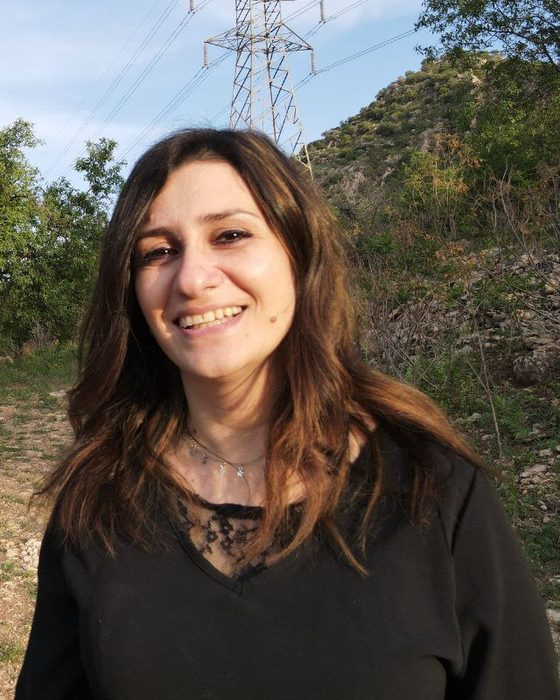
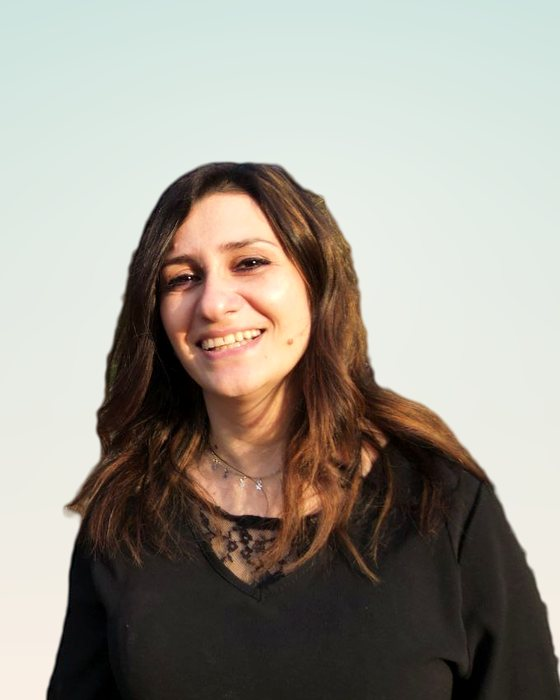
Clean photo background, portrait in hero, phone in header/hero, update Dr. Sally's details (2009 grad, 2017 start, director since 2021, 2000+ cases)
Claude-Session: https://claude.ai/code/session_01KubxAdpsYzhsGBtNT1XNHx

diff --git a/index.html b/index.html
@@ -16,7 +16,7 @@
 <link rel="icon" href="/favicon.ico"><link rel="apple-touch-icon" href="/apple-touch-icon.png">
 <link rel="preconnect" href="https://fonts.googleapis.com"><link rel="preconnect" href="https://fonts.gstatic.com" crossorigin>
 <link rel="stylesheet" href="https://fonts.googleapis.com/css2?family=Vazirmatn:wght@400;500;700;800&family=Fraunces:opsz,wght@9..144,600;9..144,700&family=Nunito+Sans:wght@400;600;700&display=swap">
-<link rel="stylesheet" href="/assets/site.css?v=7">
+<link rel="stylesheet" href="/assets/site.css?v=8">
 <script type="application/ld+json">{"@context":"https://schema.org","@type":"Physician","name":"Dr. Sally Rizqo","alternateName":"د. سالي رزقو","url":"https://drsallycare.com/","image":"https://drsallycare.com/assets/dr-sally.jpg","telephone":"+9647738919655","availableLanguage":["Arabic","Kurdish","English"],"areaServed":["Duhok","Kurdistan Region of Iraq","Online"],"description":"Online consultations and guides for children's and teenagers' emotional wellbeing: autism, ADHD, learning difficulties and adolescence."}</script>
 </head>
 <body>
@@ -33,11 +33,12 @@
       </div>
       <div class="btns">
         <a class="btn primary wa-link" href="#book"><span data-i18n="btnBook"></span></a>
+        <a class="btn tel-btn" data-tel href="#" aria-label="Call"><svg viewBox="0 0 24 24" fill="none" stroke="currentColor" stroke-width="2" stroke-linecap="round" stroke-linejoin="round" aria-hidden="true"><path d="M22 16.9v3a2 2 0 0 1-2.2 2 19.8 19.8 0 0 1-8.6-3.1 19.5 19.5 0 0 1-6-6A19.8 19.8 0 0 1 2.1 4.2 2 2 0 0 1 4.1 2h3a2 2 0 0 1 2 1.7c.1 1 .4 1.9.7 2.8a2 2 0 0 1-.5 2.1L8.1 9.9a16 16 0 0 0 6 6l1.3-1.3a2 2 0 0 1 2.1-.4c.9.3 1.8.6 2.8.7a2 2 0 0 1 1.7 2z"/></svg><span dir="ltr" class="tel-num"></span></a>
         <a class="btn" href="/play/" data-i18n="btnPlay"></a>
       </div>
       <p class="small-note" data-i18n="disclaimer"></p>
     </div>
-    <span class="hero-art" aria-hidden="true" style="display:block;aspect-ratio:1;background:var(--teal);-webkit-mask:url(/assets/logo-mark.png?v=2) center/contain no-repeat;mask:url(/assets/logo-mark.png?v=2) center/contain no-repeat"></span>
+    <figure class="hero-photo"><img src="/assets/dr-sally.jpg?v=2" width="560" height="700" alt="د. سالي رزقو · Dr. Sally Rizqo" fetchpriority="high" decoding="async"></figure>
   </section>
 
   <section style="padding-top:0">
@@ -119,9 +120,9 @@
         <h2 data-i18n="brand"></h2>
         <p data-i18n="aboutP"></p>
         <div class="stat-row" style="--c:var(--teal)">
-          <div class="stat"><b>+1000</b><span data-i18n="sCases"></span></div>
-          <div class="stat"><b>2010</b><span data-i18n="sSince"></span></div>
-          <div class="stat"><b>2020</b><span data-i18n="sCenter"></span></div>
+          <div class="stat"><b>+2000</b><span data-i18n="sCases"></span></div>
+          <div class="stat"><b>2017</b><span data-i18n="sSince"></span></div>
+          <div class="stat"><b>2021</b><span data-i18n="sCenter"></span></div>
         </div>
         <div class="facts">
           <div class="fact"><b data-i18n="fQual"></b><span data-i18n="fQualV"></span></div>
@@ -186,7 +187,7 @@ window.PAGE = { id:"home", t:{
 ar:{
  heroEyebrow:"استشارات أونلاين بالعربية والكوردية والإنجليزية",
  heroTitle:"دعم متخصص لصحة طفلك النفسية، أينما كنتم",
- heroLead:"طبيبة في مجال الصحة النفسية للأطفال والمراهقين ومديرة مركز نفسية الطفل في دهوك، تابعت أكثر من 1000 حالة من التوحد وفرط الحركة وتشتت الانتباه وصعوبات التعلم ومرحلة المراهقة. نستمع لمخاوفكم، ونضع معًا خطوات واضحة للبيت والمدرسة.",
+ heroLead:"طبيبة في مجال الصحة النفسية للأطفال والمراهقين ومديرة مركز نفسية الطفل في دهوك، قابلت وعالجت أكثر من 2000 حالة من التوحد وفرط الحركة وتشتت الانتباه وصعوبات التعلم ومرحلة المراهقة. نستمع لمخاوفكم، ونضع معًا خطوات واضحة للبيت والمدرسة.",
  btnPlay:"ألعاب وأنشطة للأطفال",
  focusTitle:"اختاروا الموضوع", focusLead:"لكل موضوع صفحة خاصة فيها أقسام للعائلات والمعلمين والباحثين.",
  fAutism:"التوحد", fAutismP:"علامات مبكرة، تقييم، رأي ثانٍ، وخطة عملية لدعم تواصل الطفل ومهاراته.",
@@ -199,9 +200,9 @@ ar:{
  how2:"اختاروا الموعد", how2p:"نؤكد معكم الوقت المناسب بتوقيت العراق.",
  how3:"استشارة فيديو", how3p:"جلسة خاصة، ثم خطة واضحة للخطوات التالية.",
  aboutEyebrow:"عن الدكتورة",
- aboutP:"تخرجت الدكتورة سالي في كلية الطب، جامعة الموصل (طب نينوى) عام 2008، وتعيّنت طبيبةً عام 2010. منذ عام 2020 تعمل ممارسةً ومديرةً لمركز نفسية الطفل في دهوك، حيث تابعت أكثر من 1000 حالة من التوحد وفرط الحركة وتشتت الانتباه وصعوبات التعلم ومشكلات المراهقة. أدارت عددًا من الدورات التدريبية، وشاركت مع منظمات المجتمع المدني في زيارات لمخيمات المهجّرين والنازحين.",
- sCases:"حالة تابعتها: توحد، فرط حركة، صعوبات تعلم، ومراهقة", sSince:"بداية الممارسة الطبية", sCenter:"مديرة مركز نفسية الطفل في دهوك",
- fQualV:"بكالوريوس طب وجراحة عامة، جامعة الموصل (طب نينوى)، 2008", fSpec:"الاختصاص", fCommunity:"العمل المجتمعي", fCommunityV:"دورات تدريبية، وزيارات لمخيمات المهجّرين والنازحين مع منظمات المجتمع المدني",
+ aboutP:"تخرجت الدكتورة سالي في كلية الطب، جامعة الموصل (طب نينوى) عام 2009، وبدأت ممارسة الطب النفسي عام 2017. تعمل منذ عام 2021 مديرةً لمركز نفسية الطفل في دهوك، وقد قابلت وعالجت أكثر من 2000 حالة من التوحد وفرط الحركة وتشتت الانتباه وصعوبات التعلم ومشكلات المراهقة. أدارت عددًا من الدورات التدريبية، وشاركت مع منظمات المجتمع المدني في زيارات لمخيمات المهجّرين والنازحين.",
+ sCases:"حالة قابلتها وعالجتها: توحد، فرط حركة، صعوبات تعلم، ومراهقة", sSince:"بداية ممارسة الطب النفسي", sCenter:"مديرة مركز نفسية الطفل في دهوك",
+ fQualV:"بكالوريوس طب وجراحة عامة، جامعة الموصل (طب نينوى)، 2009", fSpec:"الاختصاص", fCommunity:"العمل المجتمعي", fCommunityV:"دورات تدريبية، وزيارات لمخيمات المهجّرين والنازحين مع منظمات المجتمع المدني",
  photoPh:"صورة الدكتورة (بعد موافقتها)",
  fQual:"المؤهلات", fReg:"رقم التسجيل المهني", fLangs:"لغات الاستشارة", fLangsV:"العربية، الكوردية (البادينية)، الإنجليزية",
  fAges:"الفئة العمرية", fFocus:"مجالات التركيز", fFocusV:"التوحد، فرط الحركة وتشتت الانتباه، صعوبات التعلم، المراهقة", fBase:"المقر",
@@ -249,7 +250,7 @@ ar:{
 ku:{
  heroEyebrow:"شێوەرێن ئۆنلاین ب کوردی، عەرەبی و ئینگلیزی",
  heroTitle:"پشتەڤانیا پسپۆڕ بۆ ساخلەمیا دەروونیا زارۆکێ تە، ل هەر جهەکێ هوین لێ بن",
- heroLead:"پزیشکەکا بوارێ ساخلەمیا دەروونی یا زارۆکان و هەرزەکاران و ڕێڤەبەرا سەنتەرێ دەروونیا زارۆکان ل دهۆکێ، کو زێدەتر ژ 1000 حالەتێن ئۆتیزم، زێدە-جوولە و کێمیا سەرنجێ، زەحمەتیێن فێربوونێ و هەرزەکاریێ دویڤچوون بۆ کرینە. گوهێ خۆ ددەینە نیگەرانیێن هەوە، و پێکڤە پێنگاڤێن ئاشکرا بۆ مال و قوتابخانێ دادنێین.",
+ heroLead:"پزیشکەکا بوارێ ساخلەمیا دەروونی یا زارۆکان و هەرزەکاران و ڕێڤەبەرا سەنتەرێ دەروونیا زارۆکان ل دهۆکێ، کو زێدەتر ژ 2000 حالەتێن ئۆتیزم، زێدە-جوولە و کێمیا سەرنجێ، زەحمەتیێن فێربوونێ و هەرزەکاریێ ڤەکۆلین و چارەسەر کرینە. گوهێ خۆ ددەینە نیگەرانیێن هەوە، و پێکڤە پێنگاڤێن ئاشکرا بۆ مال و قوتابخانێ دادنێین.",
  btnPlay:"یاری و چالاکی بۆ زارۆکان",
  focusTitle:"بابەتەکی هەلبژێرن", focusLead:"بۆ هەر بابەتەکی پەڕەکا تایبەت هەیە، دگەل بەشێن خێزانان، مامۆستایان و ڤەکۆلەران.",
  fAutism:"ئۆتیزم", fAutismP:"نیشانێن زوو، هەلسەنگاندن، بیروڕایا دووێ، و پلانەکا کرداری بۆ پشتەڤانیا زارۆکی.",
@@ -262,9 +263,9 @@ ku:{
  how2:"دەمێ هەلبژێرە", how2p:"دەمێ گونجای ب دەمژمێرا عێراقێ پشتڕاست دکەین.",
  how3:"شێوەرا ڤیدیۆیی", how3p:"دانیشتنەکا تایبەت، پاشی پلانەکا ئاشکرا.",
  aboutEyebrow:"دەربارەی دکتۆرێ",
- aboutP:"دکتۆرە سالی ل ساڵا 2008 ژ کۆلیژا پزیشکی یا زانکۆیا مووسڵ (پزیشکیا نەینەوا) دەرچوویە، و ل ساڵا 2010 دامەزرایە. ژ ساڵا 2020 ڤە وەک پزیشک و ڕێڤەبەرا سەنتەرێ دەروونیا زارۆکان ل دهۆکێ کار دکەت، و زێدەتر ژ 1000 حالەتێن ئۆتیزم، زێدە-جوولە، زەحمەتیێن فێربوونێ و ئاریشێن هەرزەکاریێ دویڤچوون بۆ کرینە. گەلەک خولێن ڕاهێنانێ بڕێڤەبرینە، و دگەل ڕێکخراوێن جڤاکا مەدەنی سەرەدانا کەمپێن ئاوارە و دەربەدەران کریە.",
- sCases:"حالەت: ئۆتیزم، زێدە-جوولە، زەحمەتیێن فێربوونێ و هەرزەکاری", sSince:"دەستپێکا کارێ پزیشکی", sCenter:"ڕێڤەبەرا سەنتەرێ دەروونیا زارۆکان ل دهۆکێ",
- fQualV:"بەکالۆریۆسا پزیشکی، زانکۆیا مووسڵ (پزیشکیا نەینەوا)، 2008", fSpec:"پسپۆڕی", fCommunity:"کارێ جڤاکی", fCommunityV:"خولێن ڕاهێنانێ، و سەرەدانا کەمپێن ئاوارە و دەربەدەران دگەل ڕێکخراوێن جڤاکا مەدەنی",
+ aboutP:"دکتۆرە سالی ل ساڵا 2009 ژ کۆلیژا پزیشکی یا زانکۆیا مووسڵ (پزیشکیا نەینەوا) دەرچوویە، و ل ساڵا 2017 دەستپێکریە ب پراکتیزەکرنا پزیشکیا دەروونی. ژ ساڵا 2021 ڤە ڕێڤەبەرا سەنتەرێ دەروونیا زارۆکان ل دهۆکێ یە، و زێدەتر ژ 2000 حالەتێن ئۆتیزم، زێدە-جوولە، زەحمەتیێن فێربوونێ و ئاریشێن هەرزەکاریێ ڤەکۆلین و چارەسەر کرینە. گەلەک خولێن ڕاهێنانێ بڕێڤەبرینە، و دگەل ڕێکخراوێن جڤاکا مەدەنی سەرەدانا کەمپێن ئاوارە و دەربەدەران کریە.",
+ sCases:"حالەتێن ڤەکۆلای و چارەسەرکری: ئۆتیزم، زێدە-جوولە، زەحمەتیێن فێربوونێ و هەرزەکاری", sSince:"دەستپێکا پراکتیزەکرنا پزیشکیا دەروونی", sCenter:"ڕێڤەبەرا سەنتەرێ دەروونیا زارۆکان ل دهۆکێ",
+ fQualV:"بەکالۆریۆسا پزیشکی، زانکۆیا مووسڵ (پزیشکیا نەینەوا)، 2009", fSpec:"پسپۆڕی", fCommunity:"کارێ جڤاکی", fCommunityV:"خولێن ڕاهێنانێ، و سەرەدانا کەمپێن ئاوارە و دەربەدەران دگەل ڕێکخراوێن جڤاکا مەدەنی",
  photoPh:"وێنێ دکتۆرێ (پشتی ڕەزامەندیا وێ)",
  fQual:"بڕوانامە", fReg:"ژمارا تۆمارا پیشەیی", fLangs:"زمانێن شێوەرێ", fLangsV:"کوردی (بادینی)، عەرەبی، ئینگلیزی",
  fAges:"تەمەن", fFocus:"بوارێن سەرەکی", fFocusV:"ئۆتیزم، زێدە-جوولە و کێمیا سەرنجێ، زەحمەتیێن فێربوونێ، هەرزەکاری", fBase:"جه",
@@ -312,7 +313,7 @@ ku:{
 en:{
  heroEyebrow:"Online consultations in Arabic, Kurdish and English",
  heroTitle:"Expert support for your child's emotional wellbeing, wherever you are",
- heroLead:"A physician in child and adolescent mental health and director of the Child Psychology Centre in Duhok, who has followed more than 1,000 children and teens with autism, ADHD, learning difficulties and adolescent challenges. We listen to your concerns and agree clear next steps for home and school, together.",
+ heroLead:"A physician in child and adolescent mental health and director of the Child Psychology Centre in Duhok, who has seen and treated more than 2,000 children and teens with autism, ADHD, learning difficulties and adolescent challenges. We listen to your concerns and agree clear next steps for home and school, together.",
  btnPlay:"Games & activities for children",
  focusTitle:"Choose a topic", focusLead:"Each topic has its own page, with sections for families, teachers and researchers.",
  fAutism:"Autism", fAutismP:"Early signs, assessment, second opinions, and a practical plan to support communication and skills.",
@@ -325,9 +326,9 @@ en:{
  how2:"Choose a time", how2p:"We confirm a suitable time in Iraq time.",
  how3:"Video consultation", how3p:"A private session, followed by a clear plan for next steps.",
  aboutEyebrow:"About",
- aboutP:"Dr. Sally graduated from the College of Medicine, University of Mosul (Nineveh Medicine) in 2008 and was appointed as a physician in 2010. Since 2020 she has practised at, and directed, the Child Psychology Centre in Duhok, where she has followed more than 1,000 children and teenagers with autism, ADHD, learning difficulties and adolescent challenges. She has led training courses and worked with civil-society organisations on visits to camps for displaced families.",
- sCases:"cases followed: autism, ADHD, learning difficulties, adolescence", sSince:"in medical practice since", sCenter:"director of the Child Psychology Centre, Duhok",
- fQualV:"MBChB, University of Mosul (Nineveh Medicine), 2008", fSpec:"Specialty", fCommunity:"Community work", fCommunityV:"Training courses, and camp visits for displaced families with civil-society organisations",
+ aboutP:"Dr. Sally graduated from the College of Medicine, University of Mosul (Nineveh Medicine) in 2009 and began practising psychiatry in 2017. Since 2021 she has directed the Child Psychology Centre in Duhok, and she has seen and treated more than 2,000 children and teenagers with autism, ADHD, learning difficulties and adolescent challenges. She has led training courses and worked with civil-society organisations on visits to camps for displaced families.",
+ sCases:"cases seen and treated: autism, ADHD, learning difficulties, adolescence", sSince:"began practising psychiatry", sCenter:"director of the Child Psychology Centre, Duhok",
+ fQualV:"MBChB, University of Mosul (Nineveh Medicine), 2009", fSpec:"Specialty", fCommunity:"Community work", fCommunityV:"Training courses, and camp visits for displaced families with civil-society organisations",
  photoPh:"Doctor's photo (with her approval)",
  fQual:"Qualifications", fReg:"Registration number", fLangs:"Consultation languages", fLangsV:"Arabic, Kurdish (Badini), English",
  fAges:"Age range", fFocus:"Focus areas", fFocusV:"Autism, ADHD, learning difficulties, adolescence", fBase:"Based in",
@@ -376,8 +377,8 @@ en:{
   document.getElementById("latest").innerHTML = pick.map(sl => window.ARTICLES.find(a => a.slug === sl)).filter(Boolean).map(window.artCard).join("");
  } };
 </script>
-<script src="/assets/articles-data.js?v=7"></script>
-<script src="/assets/articles-ui.js?v=7"></script>
-<script src="/assets/site.js?v=7"></script>
+<script src="/assets/articles-data.js?v=8"></script>
+<script src="/assets/articles-ui.js?v=8"></script>
+<script src="/assets/site.js?v=8"></script>
 </body>
 </html>

diff --git a/learn/autism-early-signs/index.html b/learn/autism-early-signs/index.html
@@ -16,7 +16,7 @@
 <link rel="icon" href="/favicon.ico"><link rel="apple-touch-icon" href="/apple-touch-icon.png">
 <link rel="preconnect" href="https://fonts.googleapis.com"><link rel="preconnect" href="https://fonts.gstatic.com" crossorigin>
 <link rel="stylesheet" href="https://fonts.googleapis.com/css2?family=Vazirmatn:wght@400;500;700;800&family=Fraunces:opsz,wght@9..144,600;9..144,700&family=Nunito+Sans:wght@400;600;700&display=swap">
-<link rel="stylesheet" href="/assets/site.css?v=7">
+<link rel="stylesheet" href="/assets/site.css?v=8">
 <script type="application/ld+json">{"@context":"https://schema.org","@type":"Article","headline":"Early signs of autism: when should I be concerned?","description":"What parents may notice in the first two years, when an assessment is worth seeking, and why waiting is rarely helpful.","inLanguage":["ar","ku","en"],"datePublished":"2026-10-08","dateModified":"2026-10-08","mainEntityOfPage":"https://drsallycare.com/learn/autism-early-signs/","publisher":{"@type":"Organization","name":"Dr. Sally Rizqo","url":"https://drsallycare.com/"}}</script>
 </head>
 <body>
@@ -34,7 +34,7 @@
   </section>
   <section style="padding-top:8px"><h2 data-i18n="moreArt"></h2><div class="art-grid" id="more"></div></section>
 </main>
-<script src="/assets/articles-data.js?v=7"></script>
+<script src="/assets/articles-data.js?v=8"></script>
 <script>
 window.PAGE = { id:"learn", t:{"ar":{"pageTitle":"علامات التوحد المبكرة: متى يجب أن أقلق؟ | د. سالي رزقو","title":"علامات التوحد المبكرة: متى يجب أن أقلق؟","sum":"ما الذي يلاحظه الأهل في السنتين الأوليين، ومتى يكون التقييم ضروريًا، ولماذا لا ينبغي الانتظار.","body":"<p>كل طفل يتطور بإيقاعه الخاص، ووجود علامة واحدة لا يعني أن الطفل مصاب بالتوحد. الأهم أن ننتبه إلى <b>مجموعة علامات تستمر</b> وتؤثر على تواصل الطفل ولعبه وتفاعله مع من حوله.</p><h3>علامات يلاحظها الأهل</h3><ul><li>قلة التواصل بالعين، أو عدم الالتفات عند مناداته باسمه في عمر سنة تقريبًا.</li><li>عدم الإشارة بإصبعه إلى الأشياء ليُريكم ما يهمه، أو عدم الاستجابة لإشارتكم.</li><li>تأخر الكلام أو غياب المناغاة، أو التوقف عن كلمات كان يقولها.</li><li>لعب متكرر بنفس الطريقة (ترتيب الأشياء، تدوير العجلات) أكثر من اللعب التخيلي.</li><li>حساسية شديدة لأصوات أو ملمس أو روائح معينة، أو انزعاج كبير من تغيّر الروتين.</li><li>قلة الاهتمام بمشاركة الفرح معكم أو بمشاهدة الأطفال الآخرين.</li></ul><div class=\"alert\">فقدان أي مهارة لغوية أو اجتماعية كان الطفل قد اكتسبها، في أي عمر، يستدعي التقييم دون تأخير.</div><h3>ما الذي لا يعني التوحد وحده؟</h3><p>الخجل، أو تأخر الكلام وحده مع تواصل جيد بالإشارات والنظر، أو اللعب الهادئ لا تعني بالضرورة التوحد. لذلك نحتاج إلى تقييم متخصص يجمع الملاحظات من البيت ومن المدرسة أو الحضانة.</p><h3>ماذا أفعل الآن؟</h3><ol><li>دوّنوا ملاحظاتكم مع أمثلة وتواريخ، وصوّروا مقاطع قصيرة لسلوك الطفل في البيت.</li><li>اطلبوا فحص السمع وتقييم النمو، فهما من أول الخطوات.</li><li>لا تنتظروا «حتى يكبر». الدعم المبكر يحسّن التواصل والمهارات في سنوات يكون فيها الدماغ شديد المرونة.</li><li>تواصلوا مع مختص في صحة الطفل النفسية والنمائية لتقييم الحالة ووضع خطة.</li></ol><p>طلب التقييم ليس اتهامًا لأحد ولا حكمًا على الطفل، بل خطوة محبة لفهمه ودعمه. والأهل ليسوا سبب التوحد.</p>"},"en":{"pageTitle":"Early signs of autism: when should I be concerned? | Dr. Sally Rizqo","title":"Early signs of autism: when should I be concerned?","sum":"What parents may notice in the first two years, when an assessment is worth seeking, and why waiting is rarely helpful.","body":"<p>Every child develops at their own pace, and a single sign does not mean a child is autistic. What matters is a <b>pattern that persists</b> and affects how the child communicates, plays and connects with others.</p><h3>Signs parents may notice</h3><ul><li>Little eye contact, or not turning when called by name at around one year.</li><li>Not pointing to show you things that interest them, or not following your pointing.</li><li>Delayed speech, little babbling, or stopping words they used to say.</li><li>Repetitive play (lining up objects, spinning wheels) more than pretend play.</li><li>Strong reactions to certain sounds, textures or smells, or great distress when routines change.</li><li>Little interest in sharing joy with you or watching other children.</li></ul><div class=\"alert\">Losing any language or social skill a child had already gained, at any age, calls for assessment without delay.</div><h3>What does not point to autism on its own?</h3><p>Shyness, or late talking alone with good communication through gestures and eye contact, or quiet play do not necessarily mean autism. That is why a specialist assessment, bringing together observations from home and from nursery or school, is needed.</p><h3>What can I do now?</h3><ol><li>Write down your observations with examples and dates, and record short videos of your child at home.</li><li>Ask for a hearing test and a developmental assessment. They are among the first steps.</li><li>Don't wait for them to \"grow out of it\". Early support improves communication and skills during years when the brain is very adaptable.</li><li>Contact a specialist in child mental health and development to assess your child and agree a plan.</li></ol><p>Asking for an assessment is not blaming anyone or judging your child. It is a loving step towards understanding and supporting them. Parents do not cause autism.</p>"}},
  onLang(){
@@ -44,7 +44,7 @@ window.PAGE = { id:"learn", t:{"ar":{"pageTitle":"علامات التوحد ال
   document.getElementById("more").innerHTML = others.slice(0, 3).map(window.artCard).join("");
  } };
 </script>
-<script src="/assets/articles-ui.js?v=7"></script>
-<script src="/assets/site.js?v=7"></script>
+<script src="/assets/articles-ui.js?v=8"></script>
+<script src="/assets/site.js?v=8"></script>
 </body>
 </html>

diff --git a/learn/autism-first-steps-home/index.html b/learn/autism-first-steps-home/index.html
@@ -16,7 +16,7 @@
 <link rel="icon" href="/favicon.ico"><link rel="apple-touch-icon" href="/apple-touch-icon.png">
 <link rel="preconnect" href="https://fonts.googleapis.com"><link rel="preconnect" href="https://fonts.gstatic.com" crossorigin>
 <link rel="stylesheet" href="https://fonts.googleapis.com/css2?family=Vazirmatn:wght@400;500;700;800&family=Fraunces:opsz,wght@9..144,600;9..144,700&family=Nunito+Sans:wght@400;600;700&display=swap">
-<link rel="stylesheet" href="/assets/site.css?v=7">
+<link rel="stylesheet" href="/assets/site.css?v=8">
 <script type="application/ld+json">{"@context":"https://schema.org","@type":"Article","headline":"My child is autistic: practical steps at home","description":"A picture routine, simple communication and calm responses to sensory overload. Ideas you can use from today.","inLanguage":["ar","ku","en"],"datePublished":"2026-10-08","dateModified":"2026-10-08","mainEntityOfPage":"https://drsallycare.com/learn/autism-first-steps-home/","publisher":{"@type":"Organization","name":"Dr. Sally Rizqo","url":"https://drsallycare.com/"}}</script>
 </head>
 <body>
@@ -34,7 +34,7 @@
   </section>
   <section style="padding-top:8px"><h2 data-i18n="moreArt"></h2><div class="art-grid" id="more"></div></section>
 </main>
-<script src="/assets/articles-data.js?v=7"></script>
+<script src="/assets/articles-data.js?v=8"></script>
 <script>
 window.PAGE = { id:"learn", t:{"ar":{"pageTitle":"طفلي مصاب بالتوحد: خطوات عملية في البيت | د. سالي رزقو","title":"طفلي مصاب بالتوحد: خطوات عملية في البيت","sum":"روتين مصوّر، تواصل بسيط، وتعامل هادئ مع الانهيار الحسي. أفكار يمكن تطبيقها منذ اليوم.","body":"<p>بعد التشخيص يسأل الأهل: «ماذا نفعل في البيت؟». الدعم الأهم لا يحتاج أدوات غالية، بل <b>ثباتًا وصبرًا وفهمًا لطريقة الطفل</b> في التعبير.</p><h3>1. روتين واضح ومصوّر</h3><p>كثير من الأطفال يرتاحون حين يعرفون ما سيحدث بعد ذلك. استخدموا صورًا بسيطة بترتيب اليوم (استيقاظ، فطور، مدرسة، لعب، نوم)، وأخبروه مسبقًا بأي تغيير. في صفحة <a href=\"/play/\">الألعاب والأنشطة</a> جدول يومي مصوّر قابل للطباعة.</p><h3>2. تواصل بأبسط الطرق</h3><ul><li>استخدموا جملًا قصيرة وواضحة، وأعطوه وقتًا ليجيب.</li><li>أضيفوا الإشارات والصور إذا كان الكلام محدودًا. هذا لا يؤخر الكلام، بل يدعمه.</li><li>سمّوا مشاعره: «أنت غاضب لأن اللعبة انكسرت».</li></ul><h3>3. الانهيار ليس تمردًا</h3><p>الانهيار الحسي (meltdown) يحدث حين يُرهق الضجيج أو الازدحام أو التغيير جهازَه العصبي. ليس سلوكًا لجذب الانتباه ولا عنادًا. في تلك اللحظة:</p><ul><li>قللوا الصوت والضوء والكلام، وابقوا قريبين وهادئين.</li><li>لا تناقشوا ولا تعاقبوا أثناء الانهيار، فالطفل لا يستطيع الاستماع حينها.</li><li>بعد أن يهدأ، تحدثوا ببساطة، وفكروا ما الذي أرهقه لتتجنبوه أو تهيئوه له.</li></ul><h3>4. ابنوا على اهتماماته</h3><p>إن أحب السيارات أو الأرقام أو الحيوانات، فاستخدموها للتعلم واللعب والتواصل. الاهتمام القوي نقطة قوة وليس مشكلة.</p><h3>5. اعتنوا بأنفسكم أيضًا</h3><p>إرهاق الأهل حقيقي. اطلبوا المساعدة من العائلة، وتواصلوا مع أهالٍ آخرين، ولا تترددوا في طلب إرشاد للأهل. دعمكم لأنفسكم جزء من دعمكم لطفلكم.</p><p>لا يوجد علاج «يشفي» التوحد، لكن الدعم المناسب يحسّن مهارات الطفل واستقلاليته وجودة حياته وحياة الأسرة.</p>"},"en":{"pageTitle":"My child is autistic: practical steps at home | Dr. Sally Rizqo","title":"My child is autistic: practical steps at home","sum":"A picture routine, simple communication and calm responses to sensory overload. Ideas you can use from today.","body":"<p>After a diagnosis parents ask, \"What do we do at home?\" The most helpful support needs no expensive tools, only <b>consistency, patience and an understanding of how your child communicates</b>.</p><h3>1. A clear, picture-based routine</h3><p>Many children feel calmer when they know what comes next. Use simple pictures for the order of the day (wake up, breakfast, school, play, sleep) and warn them ahead of any change. The <a href=\"/play/\">games & activities</a> page has a printable picture schedule.</p><h3>2. Communicate in the simplest way</h3><ul><li>Use short, clear sentences and give time to answer.</li><li>Add gestures and pictures if speech is limited. This does not delay speech, it supports it.</li><li>Name feelings: \"You're angry because the toy broke.\"</li></ul><h3>3. A meltdown is not defiance</h3><p>A sensory meltdown happens when noise, crowds or change overwhelm the nervous system. It is not attention-seeking or stubbornness. In the moment:</p><ul><li>Reduce sound, light and talking, and stay close and calm.</li><li>Don't argue or punish during a meltdown; your child cannot take it in.</li><li>Once calm, talk simply, and think about what overwhelmed them so you can avoid or prepare for it.</li></ul><h3>4. Build on their interests</h3><p>If they love cars, numbers or animals, use them for learning, play and connection. A strong interest is a strength, not a problem.</p><h3>5. Look after yourselves too</h3><p>Parent exhaustion is real. Ask family for help, connect with other parents, and don't hesitate to seek parent guidance. Supporting yourselves is part of supporting your child.</p><p>There is no treatment that \"cures\" autism, but the right support improves a child's skills, independence and quality of life, and the family's too.</p>"}},
  onLang(){
@@ -44,7 +44,7 @@ window.PAGE = { id:"learn", t:{"ar":{"pageTitle":"طفلي مصاب بالتوح
   document.getElementById("more").innerHTML = others.slice(0, 3).map(window.artCard).join("");
  } };
 </script>
-<script src="/assets/articles-ui.js?v=7"></script>
-<script src="/assets/site.js?v=7"></script>
+<script src="/assets/articles-ui.js?v=8"></script>
+<script src="/assets/site.js?v=8"></script>
 </body>
 </html>

diff --git a/learn/adhd-not-laziness/index.html b/learn/adhd-not-laziness/index.html
@@ -16,7 +16,7 @@
 <link rel="icon" href="/favicon.ico"><link rel="apple-touch-icon" href="/apple-touch-icon.png">
 <link rel="preconnect" href="https://fonts.googleapis.com"><link rel="preconnect" href="https://fonts.gstatic.com" crossorigin>
 <link rel="stylesheet" href="https://fonts.googleapis.com/css2?family=Vazirmatn:wght@400;500;700;800&family=Fraunces:opsz,wght@9..144,600;9..144,700&family=Nunito+Sans:wght@400;600;700&display=swap">
-<link rel="stylesheet" href="/assets/site.css?v=7">
+<link rel="stylesheet" href="/assets/site.css?v=8">
 <script type="application/ld+json">{"@context":"https://schema.org","@type":"Article","headline":"ADHD is not laziness and not bad parenting","description":"What ADHD looks like at home and at school, and why a child needs understanding, not blame.","inLanguage":["ar","ku","en"],"datePublished":"2026-10-08","dateModified":"2026-10-08","mainEntityOfPage":"https://drsallycare.com/learn/adhd-not-laziness/","publisher":{"@type":"Organization","name":"Dr. Sally Rizqo","url":"https://drsallycare.com/"}}</script>
 </head>
 <body>
@@ -34,7 +34,7 @@
   </section>
   <section style="padding-top:8px"><h2 data-i18n="moreArt"></h2><div class="art-grid" id="more"></div></section>
 </main>
-<script src="/assets/articles-data.js?v=7"></script>
+<script src="/assets/articles-data.js?v=8"></script>
 <script>
 window.PAGE = { id:"learn", t:{"ar":{"pageTitle":"فرط الحركة وتشتت الانتباه: ليس كسلًا وليس سوء تربية | د. سالي رزقو","title":"فرط الحركة وتشتت الانتباه: ليس كسلًا وليس سوء تربية","sum":"كيف يبدو ADHD في البيت والمدرسة، ولماذا يحتاج الطفل إلى فهم وليس إلى لوم.","body":"<p>اضطراب فرط الحركة وتشتت الانتباه (ADHD) حالة نمائية تؤثر على تنظيم الانتباه والاندفاع والنشاط. هو <b>ليس كسلًا، وليس قلة ذكاء، وليس نتيجة تربية خاطئة</b>. كثير من الأطفال المصابين أذكياء جدًا، لكن أدمغتهم تعمل بطريقة مختلفة في التركيز والتنظيم.</p><h3>كيف يظهر في البيت والمدرسة؟</h3><ul><li><b>تشتت الانتباه:</b> ينسى الأغراض والواجبات، يبدو كأنه لا يسمع، يترك المهام نصف مكتملة، يتعب من الأعمال الطويلة.</li><li><b>فرط الحركة:</b> صعوبة في الجلوس، حركة مستمرة، كلام كثير.</li><li><b>الاندفاع:</b> مقاطعة الآخرين، صعوبة الانتظار، قرارات سريعة دون تفكير.</li></ul><p>وقد تظهر عند البنات بصورة أهدأ، كأحلام يقظة وشرود وتنظيم ضعيف، فيتأخر التعرف عليها.</p><h3>متى نفكر في التقييم؟</h3><p>حين تستمر هذه الصعوبات أكثر من ستة أشهر، وتظهر في أكثر من مكان (البيت والمدرسة)، وتؤثر فعلًا على التعلم والعلاقات والسلوك. التقييم يجمع معلومات من الأهل والمعلمين، ويستبعد أسبابًا أخرى كالقلق وصعوبات التعلم ومشاكل السمع أو النوم.</p><h3>ما الذي يساعد؟</h3><ul><li>تفهّم الحالة والتوقف عن اللوم، فهو يخفف الضغط على الطفل والأسرة.</li><li>روتين ثابت، وتعليمات قصيرة، ومهام مقسمة إلى خطوات صغيرة.</li><li>تعاون مع المدرسة: مقعد قريب من المعلم، فترات راحة، وقت إضافي.</li><li>نشاط بدني منتظم ونوم كافٍ.</li><li>في بعض الحالات يصف الطبيب علاجًا دوائيًا بعد تقييم دقيق وبمتابعة منتظمة، وهو قرار طبي يُتخذ مع الأسرة.</li></ul><p>الطفل الذي يفهمه من حوله يتحسن ثقته بنفسه، وهذا من أهم عوامل نجاحه.</p>"},"en":{"pageTitle":"ADHD is not laziness and not bad parenting | Dr. Sally Rizqo","title":"ADHD is not laziness and not bad parenting","sum":"What ADHD looks like at home and at school, and why a child needs understanding, not blame.","body":"<p>Attention-deficit/hyperactivity disorder (ADHD) is a developmental condition affecting the regulation of attention, impulses and activity. It is <b>not laziness, not low intelligence and not the result of poor parenting</b>. Many children with ADHD are very bright, but their brains work differently when it comes to focus and organisation.</p><h3>What it can look like at home and school</h3><ul><li><b>Inattention:</b> forgets belongings and homework, seems not to listen, leaves tasks half-done, tires with long tasks.</li><li><b>Hyperactivity:</b> trouble sitting still, constant movement, talking a lot.</li><li><b>Impulsivity:</b> interrupting, difficulty waiting, quick decisions without thinking.</li></ul><p>In girls it often looks quieter (daydreaming, drifting, poor organisation), so it is recognised later.</p><h3>When to think about an assessment</h3><p>When these difficulties last more than six months, appear in more than one setting (home and school) and genuinely affect learning, relationships or behaviour. Assessment gathers information from parents and teachers and rules out other causes such as anxiety, learning difficulties, or hearing and sleep problems.</p><h3>What helps</h3><ul><li>Understanding the condition and dropping blame, which eases pressure on the child and family.</li><li>A steady routine, short instructions and tasks broken into small steps.</li><li>Working with school: a seat near the teacher, movement breaks, extra time.</li><li>Regular physical activity and enough sleep.</li><li>In some cases a doctor prescribes medication after careful assessment and with regular follow-up. This is a medical decision made together with the family.</li></ul><p>A child who is understood gains confidence, and confidence is one of the strongest predictors of success.</p>"}},
  onLang(){
@@ -44,7 +44,7 @@ window.PAGE = { id:"learn", t:{"ar":{"pageTitle":"فرط الحركة وتشتت
   document.getElementById("more").innerHTML = others.slice(0, 3).map(window.artCard).join("");
  } };
 </script>
-<script src="/assets/articles-ui.js?v=7"></script>
-<script src="/assets/site.js?v=7"></script>
+<script src="/assets/articles-ui.js?v=8"></script>
+<script src="/assets/site.js?v=8"></script>
 </body>
 </html>

diff --git a/learn/adhd-routines-homework/index.html b/learn/adhd-routines-homework/index.html
@@ -16,7 +16,7 @@
 <link rel="icon" href="/favicon.ico"><link rel="apple-touch-icon" href="/apple-touch-icon.png">
 <link rel="preconnect" href="https://fonts.googleapis.com"><link rel="preconnect" href="https://fonts.gstatic.com" crossorigin>
 <link rel="stylesheet" href="https://fonts.googleapis.com/css2?family=Vazirmatn:wght@400;500;700;800&family=Fraunces:opsz,wght@9..144,600;9..144,700&family=Nunito+Sans:wght@400;600;700&display=swap">
-<link rel="stylesheet" href="/assets/site.css?v=7">
+<link rel="stylesheet" href="/assets/site.css?v=8">
 <script type="application/ld+json">{"@context":"https://schema.org","@type":"Article","headline":"Morning and homework routines for a child with ADHD","description":"Simple tricks that reduce shouting and help organisation: picture checklists, timers and immediate rewards.","inLanguage":["ar","ku","en"],"datePublished":"2026-10-08","dateModified":"2026-10-08","mainEntityOfPage":"https://drsallycare.com/learn/adhd-routines-homework/","publisher":{"@type":"Organization","name":"Dr. Sally Rizqo","url":"https://drsallycare.com/"}}</script>
 </head>
 <body>
@@ -34,7 +34,7 @@
   </section>
   <section style="padding-top:8px"><h2 data-i18n="moreArt"></h2><div class="art-grid" id="more"></div></section>
 </main>
-<script src="/assets/articles-data.js?v=7"></script>
+<script src="/assets/articles-data.js?v=8"></script>
 <script>
 window.PAGE = { id:"learn", t:{"ar":{"pageTitle":"روتين الواجبات والصباح لطفل مشتت الانتباه | د. سالي رزقو","title":"روتين الواجبات والصباح لطفل مشتت الانتباه","sum":"حيل بسيطة تقلل الصراخ وتساعد على التنظيم: قوائم مصوّرة، مؤقتات، ومكافآت فورية.","body":"<p>الصباحات والواجبات من أصعب أوقات اليوم في بيوت الأطفال المصابين بتشتت الانتباه. الفكرة ليست أن نطلب منه «التركيز أكثر»، بل أن <b>نجعل البيئة تساعده</b>.</p><h3>الصباح</h3><ul><li>جهّزوا الحقيبة والملابس في الليلة السابقة.</li><li>علّقوا قائمة بصور قصيرة: ألبس، آكل، أغسل أسناني، أخذ الحقيبة.</li><li>أعطوا تعليمة واحدة في كل مرة، بعد أن تنظروا إليه وتتأكدوا أنه سمعكم.</li></ul><h3>الواجبات</h3><ul><li>مكان ثابت، هادئ، بلا شاشات ومشتتات.</li><li>قسّموا الواجب إلى أجزاء صغيرة، مع استراحة حركة قصيرة بينها (مثلًا 10 دقائق عمل ثم 3 دقائق راحة).</li><li>استخدموا مؤقتًا مرئيًا حتى يرى الوقت.</li><li>ابدأوا بالأسهل لبناء الزخم، أو بالأصعب إن كان أنشط في البداية. جرّبوا واعتمدوا ما يناسبه.</li></ul><h3>التشجيع</h3><p>المكافأة الفورية الصغيرة أنفع من الكبيرة المتأخرة: كلمة مدح محددة («أعجبني أنك أنهيت المسألة الأولى»)، نجمة في جدول، أو وقت لعب قصير. وتجنبوا سحب الأنشطة الرياضية عقابًا، فهي تساعد على تهدئة الطاقة.</p><h3>إن لم يتحسن؟</h3><p>إذا استمر التوتر الشديد حول الواجبات أو ظهرت علامات تعب أو حزن أو رفض للمدرسة، فاستشيروا مختصًا. قد يكون وراء الأمر صعوبة تعلم أو قلق يحتاج إلى دعم محدد.</p>"},"en":{"pageTitle":"Morning and homework routines for a child with ADHD | Dr. Sally Rizqo","title":"Morning and homework routines for a child with ADHD","sum":"Simple tricks that reduce shouting and help organisation: picture checklists, timers and immediate rewards.","body":"<p>Mornings and homework are among the hardest moments in homes with a child with ADHD. The goal is not to tell them to \"focus harder\" but to <b>make the environment work for them</b>.</p><h3>Mornings</h3><ul><li>Prepare the bag and clothes the night before.</li><li>Post a short picture checklist: get dressed, eat, brush teeth, take bag.</li><li>Give one instruction at a time, after you have their eyes and know they heard you.</li></ul><h3>Homework</h3><ul><li>A fixed, quiet spot, free of screens and distractions.</li><li>Split the work into small parts with a short movement break between them (for example 10 minutes of work, 3 minutes of rest).</li><li>Use a visual timer so they can see time passing.</li><li>Start with the easiest to build momentum, or the hardest if they are freshest then. Try both and keep what works.</li></ul><h3>Encouragement</h3><p>Small immediate rewards work better than big delayed ones: specific praise (\"I liked how you finished the first problem\"), a star on a chart, or a short play break. Avoid taking away sport as punishment, as it helps settle energy.</p><h3>If it isn't improving</h3><p>If tension around homework stays high, or you see tiredness, sadness or school refusal, speak to a specialist. A learning difficulty or anxiety may be behind it and needs specific support.</p>"}},
  onLang(){
@@ -44,7 +44,7 @@ window.PAGE = { id:"learn", t:{"ar":{"pageTitle":"روتين الواجبات و
   document.getElementById("more").innerHTML = others.slice(0, 3).map(window.artCard).join("");
  } };
 </script>
-<script src="/assets/articles-ui.js?v=7"></script>
-<script src="/assets/site.js?v=7"></script>
+<script src="/assets/articles-ui.js?v=8"></script>
+<script src="/assets/site.js?v=8"></script>
 </body>
 </html>

diff --git a/learn/teen-warning-signs/index.html b/learn/teen-warning-signs/index.html
@@ -16,7 +16,7 @@
 <link rel="icon" href="/favicon.ico"><link rel="apple-touch-icon" href="/apple-touch-icon.png">
 <link rel="preconnect" href="https://fonts.googleapis.com"><link rel="preconnect" href="https://fonts.gstatic.com" crossorigin>
 <link rel="stylesheet" href="https://fonts.googleapis.com/css2?family=Vazirmatn:wght@400;500;700;800&family=Fraunces:opsz,wght@9..144,600;9..144,700&family=Nunito+Sans:wght@400;600;700&display=swap">
-<link rel="stylesheet" href="/assets/site.css?v=7">
+<link rel="stylesheet" href="/assets/site.css?v=8">
 <script type="application/ld+json">{"@context":"https://schema.org","@type":"Article","headline":"When does a teenager need specialist help?","description":"The difference between normal moodiness and signs of anxiety or depression that should not be ignored.","inLanguage":["ar","ku","en"],"datePublished":"2026-10-08","dateModified":"2026-10-08","mainEntityOfPage":"https://drsallycare.com/learn/teen-warning-signs/","publisher":{"@type":"Organization","name":"Dr. Sally Rizqo","url":"https://drsallycare.com/"}}</script>
 </head>
 <body>
@@ -34,7 +34,7 @@
   </section>
   <section style="padding-top:8px"><h2 data-i18n="moreArt"></h2><div class="art-grid" id="more"></div></section>
 </main>
-<script src="/assets/articles-data.js?v=7"></script>
+<script src="/assets/articles-data.js?v=8"></script>
 <script>
 window.PAGE = { id:"learn", t:{"ar":{"pageTitle":"متى تحتاج المراهقة إلى مساعدة متخصصة؟ | د. سالي رزقو","title":"متى تحتاج المراهقة إلى مساعدة متخصصة؟","sum":"الفرق بين التقلب الطبيعي وعلامات القلق والاكتئاب التي لا ينبغي تجاهلها.","body":"<p>التقلب المزاجي والرغبة في العزلة أحيانًا جزء طبيعي من المراهقة. لكن هناك علامات تقول إن المراهق يحتاج إلى أكثر من الوقت.</p><h3>علامات تستحق الانتباه</h3><ul><li>حزن أو تهيّج مستمر أكثر من أسبوعين.</li><li>فقدان الاهتمام بما كان يحبه، أو الانسحاب من الأصدقاء.</li><li>تغيّر واضح في النوم (أرق أو نوم مفرط) أو الشهية أو الوزن.</li><li>تراجع مفاجئ في الدراسة أو رفض الذهاب إلى المدرسة.</li><li>قلق شديد، نوبات هلع، أو شكاوى جسدية متكررة (صداع، ألم بطن) دون سبب طبي.</li><li>سلوك محفوف بالمخاطر أو غضب شديد غير معتاد.</li><li>حديث عن اليأس أو أنه «عبء» أو عن إيذاء النفس.</li></ul><div class=\"alert\">إذا ذكر المراهق رغبة في إيذاء نفسه أو إنهاء حياته، فهذه حالة طارئة: ابقوا معه، واطلبوا مساعدة طبية عاجلة أو توجهوا إلى أقرب مستشفى.</div><h3>كيف أتصرف؟</h3><ol><li>ابدأوا بالسؤال بهدوء وحنان، دون اتهام.</li><li>صدّقوا ما يقول حتى لو بدا لكم صغيرًا.</li><li>اطلبوا تقييمًا من مختص، وأخبروه أن طلب المساعدة قوة وليس ضعفًا.</li><li>حافظوا على روتين النوم والأكل والنشاط البدني قدر الإمكان.</li></ol><p>كلما بدأ الدعم مبكرًا كانت النتائج أفضل، وكثير من المراهقين يتحسنون كثيرًا بالدعم المناسب.</p>"},"en":{"pageTitle":"When does a teenager need specialist help? | Dr. Sally Rizqo","title":"When does a teenager need specialist help?","sum":"The difference between normal moodiness and signs of anxiety or depression that should not be ignored.","body":"<p>Moodiness and wanting time alone are a normal part of adolescence. But some signs say a teenager needs more than time.</p><h3>Signs worth attention</h3><ul><li>Sadness or irritability lasting more than two weeks.</li><li>Losing interest in things they loved, or withdrawing from friends.</li><li>Clear changes in sleep (insomnia or sleeping too much), appetite or weight.</li><li>A sudden drop in school performance, or refusing to go to school.</li><li>Intense worry, panic attacks, or repeated physical complaints (headaches, stomach aches) without a medical cause.</li><li>Risky behaviour or unusually intense anger.</li><li>Talk of hopelessness, being a \"burden\", or self-harm.</li></ul><div class=\"alert\">If a teenager mentions wanting to harm themselves or end their life, this is an emergency: stay with them and seek urgent medical help or go to the nearest hospital.</div><h3>What can I do?</h3><ol><li>Ask calmly and warmly, without accusing.</li><li>Believe what they say even if it seems small to you.</li><li>Seek an assessment from a specialist, and tell them that asking for help is strength, not weakness.</li><li>Keep sleep, meals and physical activity as steady as possible.</li></ol><p>The earlier support begins, the better the outcome, and many teenagers improve a great deal with the right help.</p>"}},
  onLang(){
@@ -44,7 +44,7 @@ window.PAGE = { id:"learn", t:{"ar":{"pageTitle":"متى تحتاج المراه
   document.getElementById("more").innerHTML = others.slice(0, 3).map(window.artCard).join("");
  } };
 </script>
-<script src="/assets/articles-ui.js?v=7"></script>
-<script src="/assets/site.js?v=7"></script>
+<script src="/assets/articles-ui.js?v=8"></script>
+<script src="/assets/site.js?v=8"></script>
 </body>
 </html>

diff --git a/learn/prepare-online-consultation/index.html b/learn/prepare-online-consultation/index.html
@@ -16,7 +16,7 @@
 <link rel="icon" href="/favicon.ico"><link rel="apple-touch-icon" href="/apple-touch-icon.png">
 <link rel="preconnect" href="https://fonts.googleapis.com"><link rel="preconnect" href="https://fonts.gstatic.com" crossorigin>
 <link rel="stylesheet" href="https://fonts.googleapis.com/css2?family=Vazirmatn:wght@400;500;700;800&family=Fraunces:opsz,wght@9..144,600;9..144,700&family=Nunito+Sans:wght@400;600;700&display=swap">
-<link rel="stylesheet" href="/assets/site.css?v=7">
+<link rel="stylesheet" href="/assets/site.css?v=8">
 <script type="application/ld+json">{"@context":"https://schema.org","@type":"Article","headline":"How do I prepare for an online consultation with my child?","description":"A short list of what helps to prepare before the session, and what happens during it.","inLanguage":["ar","ku","en"],"datePublished":"2026-10-08","dateModified":"2026-10-08","mainEntityOfPage":"https://drsallycare.com/learn/prepare-online-consultation/","publisher":{"@type":"Organization","name":"Dr. Sally Rizqo","url":"https://drsallycare.com/"}}</script>
 </head>
 <body>
@@ -34,7 +34,7 @@
   </section>
   <section style="padding-top:8px"><h2 data-i18n="moreArt"></h2><div class="art-grid" id="more"></div></section>
 </main>
-<script src="/assets/articles-data.js?v=7"></script>
+<script src="/assets/articles-data.js?v=8"></script>
 <script>
 window.PAGE = { id:"learn", t:{"ar":{"pageTitle":"كيف أستعد للاستشارة أونلاين مع طفلي؟ | د. سالي رزقو","title":"كيف أستعد للاستشارة أونلاين مع طفلي؟","sum":"قائمة قصيرة بما يفيد تجهيزه قبل الجلسة، وما الذي يحدث فيها.","body":"<p>الاستشارة أونلاين تشبه الزيارة العادية: نستمع إليكم ونفهم المخاوف ونضع خطوات واضحة. بعض التحضير البسيط يجعل الجلسة أنفع.</p><h3>قبل الموعد</h3><ul><li><b>اكتبوا مخاوفكم</b> ومتى بدأت وكيف تظهر في البيت والمدرسة، مع أمثلة.</li><li><b>جهّزوا التقارير السابقة</b> (تقييمات، تحاليل، تقارير مدرسية) لتشاركوها بالطريقة الآمنة التي سنتفق عليها. لا ترسلوها في الرسالة الأولى.</li><li><b>اختاروا مكانًا هادئًا</b> واتصالًا جيدًا بالإنترنت، وجهازًا مشحونًا.</li><li><b>حدّدوا هل سيحضر الطفل</b> كل الجلسة أم جزءًا منها. نقرر ذلك معكم بحسب عمره وحالته.</li></ul><h3>خلال الجلسة</h3><ul><li>نسمع قصة الطفل ونموّه وصحته وعلاقاته، ونسأل عن البيت والمدرسة.</li><li>قد نراقب لعب الطفل أو تواصله إن حضر.</li><li>في نهايتها نناقش فهمنا للحالة والخطوات الممكنة، ونجيب عن أسئلتكم.</li></ul><h3>بعد الجلسة</h3><p>نتفق على خطة ومتابعة. وفي بعض الحالات قد نوصي بتقييم حضوري أو بفحوص إضافية، وسنقول لكم ذلك بصراحة.</p><p>جميع المعلومات سرّية. الاستشارات أونلاين ليست للحالات الطارئة.</p>"},"en":{"pageTitle":"How do I prepare for an online consultation with my child? | Dr. Sally Rizqo","title":"How do I prepare for an online consultation with my child?","sum":"A short list of what helps to prepare before the session, and what happens during it.","body":"<p>An online consultation is like an ordinary visit: we listen, understand your concerns and agree clear steps. A little preparation makes the session more useful.</p><h3>Before the appointment</h3><ul><li><b>Write down your concerns</b>, when they began and how they show at home and school, with examples.</li><li><b>Gather earlier reports</b> (assessments, tests, school reports) to share in the secure way we agree. Don't send them in the first message.</li><li><b>Choose a quiet spot</b> with a good internet connection and a charged device.</li><li><b>Decide whether your child will attend</b> the whole session or part of it. We decide this with you, depending on their age and situation.</li></ul><h3>During the session</h3><ul><li>We hear about your child's story, development, health and relationships, and ask about home and school.</li><li>We may observe your child's play or communication if they attend.</li><li>At the end we discuss our understanding and the possible steps, and answer your questions.</li></ul><h3>After the session</h3><p>We agree a plan and follow-up. In some cases we may recommend an in-person assessment or additional tests, and we'll say so honestly.</p><p>All information is confidential. Online consultations are not for emergencies.</p>"}},
  onLang(){
@@ -44,7 +44,7 @@ window.PAGE = { id:"learn", t:{"ar":{"pageTitle":"كيف أستعد للاستش
   document.getElementById("more").innerHTML = others.slice(0, 3).map(window.artCard).join("");
  } };
 </script>
-<script src="/assets/articles-ui.js?v=7"></script>
-<script src="/assets/site.js?v=7"></script>
+<script src="/assets/articles-ui.js?v=8"></script>
+<script src="/assets/site.js?v=8"></script>
 </body>
 </html>
